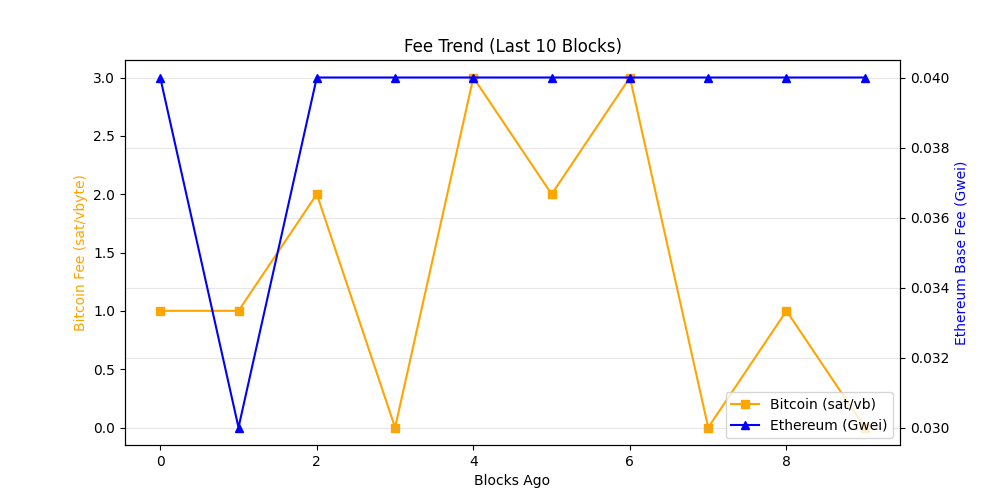
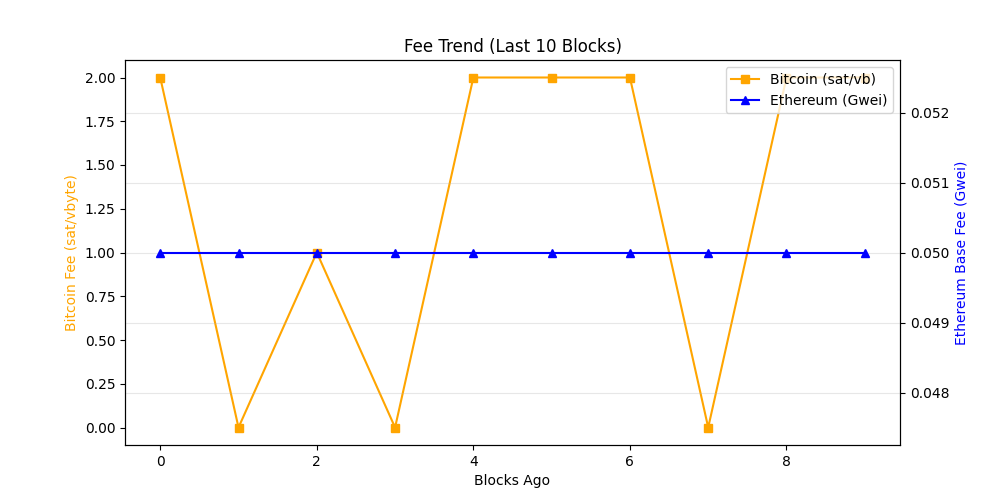
chore: update on-chain dashboard

diff --git a/README.md b/README.md
@@ -19,7 +19,7 @@ The README itself acts as the dashboard and is regenerated automatically on a 6 
 demonstrating a production-style, infrastructure-focused observability workflow rather
 than a traditional UI-driven approach.
 
-_Last updated: 2026-02-24 03:14 UTC_
+_Last updated: 2026-02-24 07:15 UTC_
 
 ## API Usage (GetBlock.io)
 - Calls used: **24**
@@ -27,8 +27,8 @@ _Last updated: 2026-02-24 03:14 UTC_
 ## Network Metrics
 | Chain | Block Height | TX Count | TPS (10 blk avg) | Block Util | Avg Fee |
 |------|-------------|----------|------------------|------------|---------|
-| Ethereum | 24523997 | 367 | 30.58 | 49.98% | 0.0 Gwei |
-| Bitcoin | 938058 | 6696 | 47.49 | 99.8% | N/A |
+| Ethereum | 24525200 | 199 | 16.58 | 28.25% | 0.1 Gwei |
+| Bitcoin | 938087 | 3665 | 4.58 | 99.8% | N/A |
 
 ## Visuals
 ### Transactions Trend
@@ -43,8 +43,11 @@ _Last updated: 2026-02-24 03:14 UTC_
 ## Whale Alerts (latest block)
 - Transaction hashes are truncated for readability.
 - Full hashes are available in `dashboards/metrics.json`
-- Bitcoin | 207.25 BTC | `9387637994c9…`
-- Bitcoin | 213.97 BTC | `d291ccd916c3…`
+- Bitcoin | 6139.5 BTC | `46f6d56d134e…`
+- Bitcoin | 122.98 BTC | `a2c215b5abb9…`
+- Bitcoin | 182.76 BTC | `6155e6916856…`
+- Bitcoin | 100.12 BTC | `9c887062c485…`
+- Bitcoin | 210.49 BTC | `c836878be1a6…`
 
 ## Run locally
 
